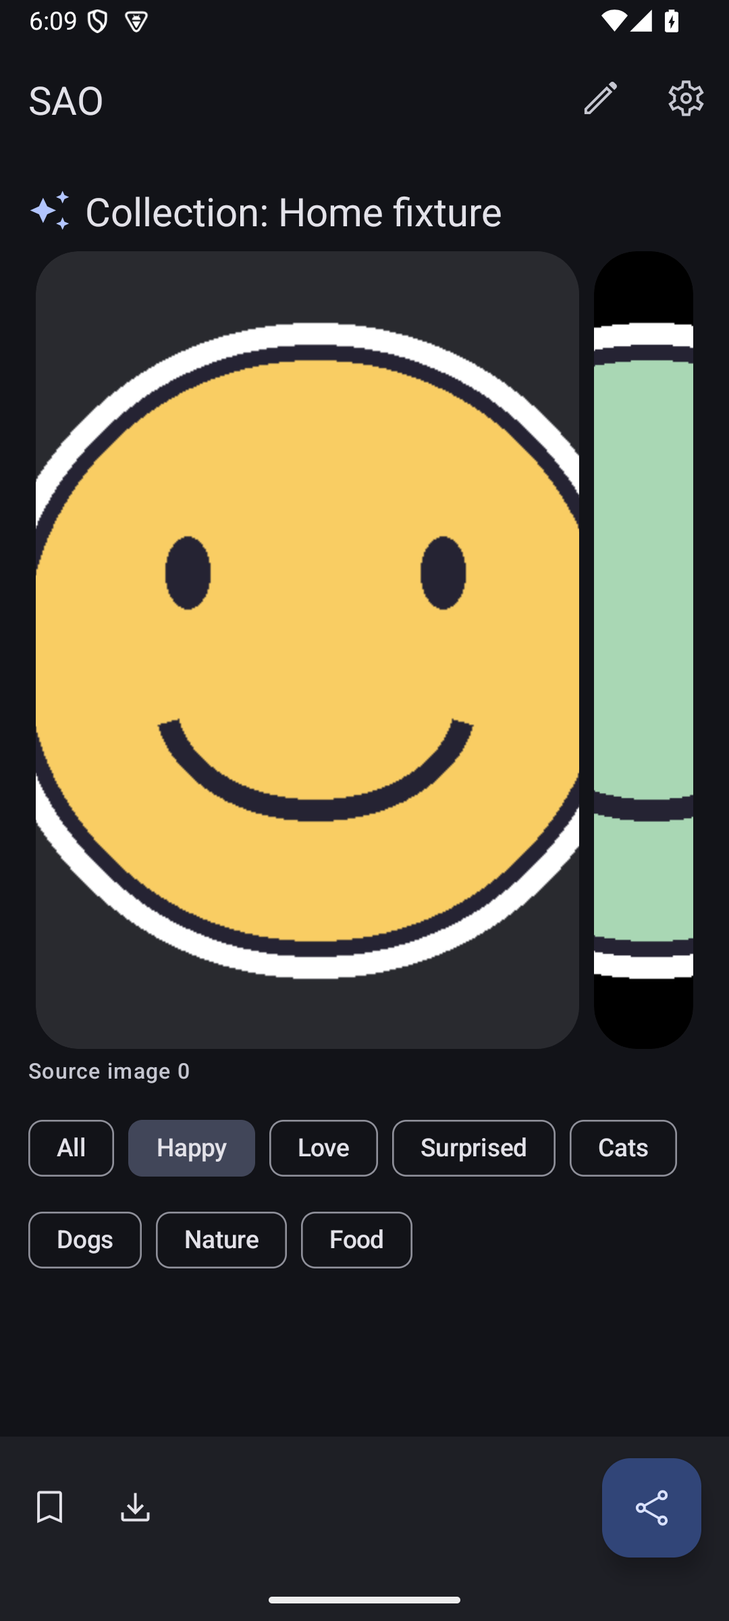
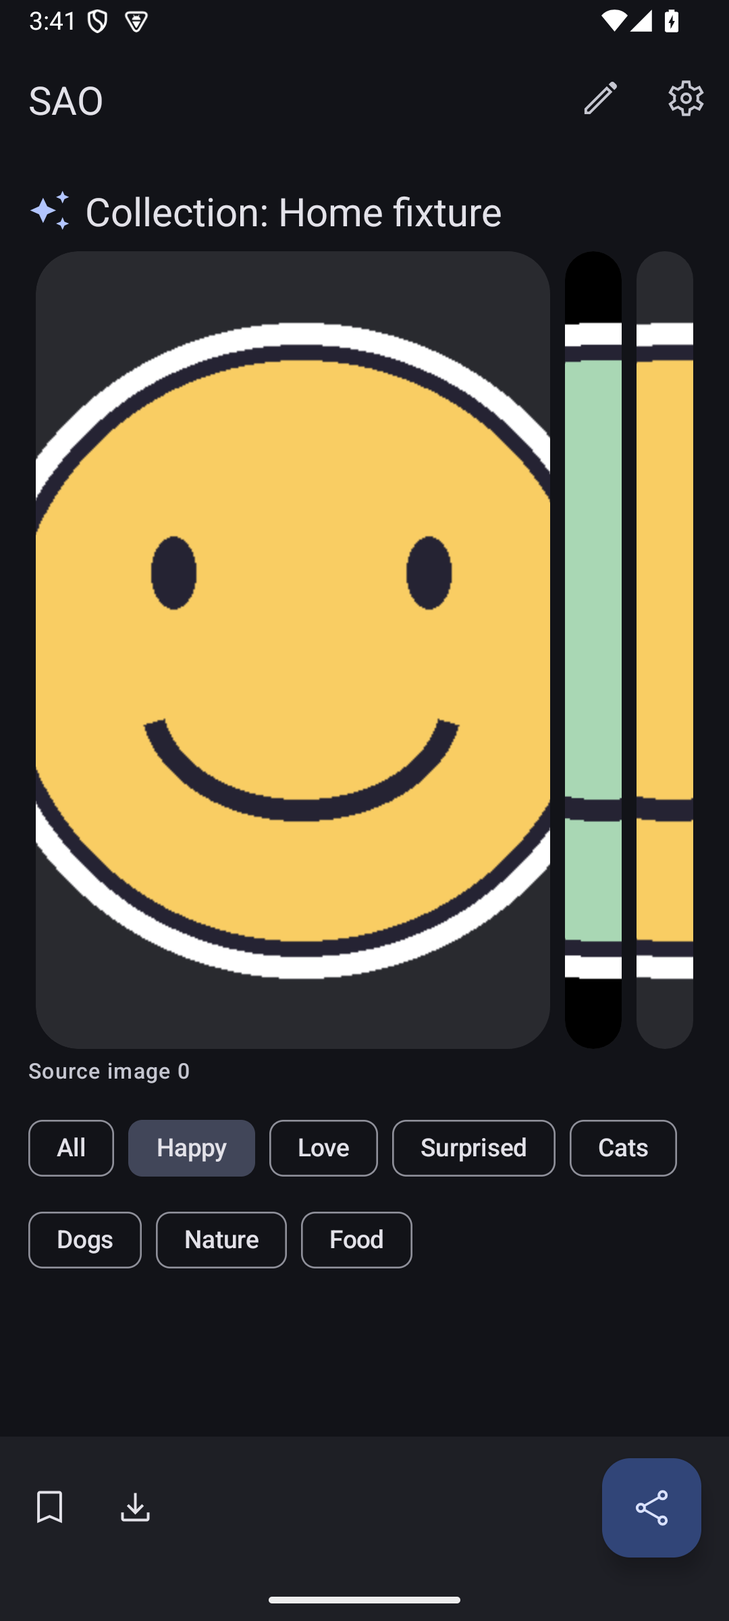
fix: restore centered home carousel and collection gestures

diff --git a/app/src/androidTest/java/one/njk/sao/floating/SourceHomeDeviceTest.kt b/app/src/androidTest/java/one/njk/sao/floating/SourceHomeDeviceTest.kt
@@ -7,6 +7,7 @@ import android.graphics.Color
 import android.graphics.drawable.Animatable
 import android.os.SystemClock
 import android.view.View
+import android.view.MotionEvent
 import android.widget.TextView
 import androidx.lifecycle.ViewModelProvider
 import androidx.recyclerview.widget.RecyclerView
@@ -321,6 +322,8 @@ class SourceHomeDeviceTest {
         try {
             profiles.restore(SourceCatalog())
             profiles.upsert(immichProfile("Home fixture",ImmichConfig(server.url("/").toString(),"home-fixture-key")),true)
+            val alternate=immichProfile("Home alternate",ImmichConfig(server.url("/").toString(),"home-alternate-key"))
+            profiles.upsert(alternate,false)
             ActivityScenario.launch<MainActivity>(IntentForHome.create(app)).use { scenario ->
                 lateinit var model: ArtsViewModel
                 scenario.onActivity { model=ViewModelProvider(it)[ArtsViewModel::class.java] }
@@ -336,12 +339,15 @@ class SourceHomeDeviceTest {
                 }
                 await(scenario,"Home filename copied") { it.getSystemService(ClipboardManager::class.java).primaryClip?.getItemAt(0)?.text?.toString()=="fixture-0.png" }
                 pauseSourceVisual("source-home")
-                scenario.onActivity { it.findViewById<RecyclerView>(R.id.carousel_recycler_view).scrollToPosition(1) }
+                scenario.onActivity { activity ->
+                    // Follow the real side-card tap route, including its smooth scroll callbacks.
+                    activity.findViewById<RecyclerView>(R.id.carousel_recycler_view).findViewHolderForAdapterPosition(1)!!.itemView.performClick()
+                }
                 await(scenario,"Home focused GIF animates") { activity ->
                     val holder=activity.findViewById<RecyclerView>(R.id.carousel_recycler_view).findViewHolderForAdapterPosition(1) as? MediaCarouselAdapter.Holder
                     (holder?.binding?.preview?.drawable as? Animatable)?.isRunning==true
                 }
-                scenario.onActivity { it.findViewById<RecyclerView>(R.id.carousel_recycler_view).scrollToPosition(2) }
+                scenario.onActivity { it.findViewById<RecyclerView>(R.id.carousel_recycler_view).smoothScrollToPosition(2) }
                 await(scenario,"Home video plays muted") { activity ->
                     val holder=activity.findViewById<RecyclerView>(R.id.carousel_recycler_view).findViewHolderForAdapterPosition(2) as? MediaCarouselAdapter.Holder
                     val player=holder?.binding?.videoPreview?.player
@@ -351,6 +357,16 @@ class SourceHomeDeviceTest {
                 val wanted=model.state.value.browse.items[7].id
                 scenario.onActivity { it.findViewById<RecyclerView>(R.id.carousel_recycler_view).scrollToPosition(7) }
                 await(scenario,"Scroll to seventh card") { model.focusedId==wanted }
+                scenario.onActivity { activity ->
+                    val grid=activity.findViewById<RecyclerView>(R.id.carousel_recycler_view)
+                    val focal=grid.findViewHolderForAdapterPosition(7)!!.itemView as com.google.android.material.carousel.MaskableFrameLayout
+                    val before=grid.findViewHolderForAdapterPosition(6)!!.itemView as com.google.android.material.carousel.MaskableFrameLayout
+                    val after=grid.findViewHolderForAdapterPosition(8)!!.itemView as com.google.android.material.carousel.MaskableFrameLayout
+                    assertTrue("Prominent focal card",focal.maskRectF.width()>grid.width*.75f)
+                    assertTrue("Both side previews",before.maskRectF.width()>0 && after.maskRectF.width()>0)
+                    assertEquals(grid.width/2f,focal.x+focal.width/2f,2f)
+                }
+                pauseSourceVisual("source-home-centered")
                 val count=searches.get(); scenario.recreate()
                 await(scenario,"Restore focal card") { model.focusedId==wanted && it.findViewById<TextView>(R.id.media_title).text.toString()=="Source image 7" }
                 assertEquals(count,searches.get())
@@ -360,6 +376,36 @@ class SourceHomeDeviceTest {
                 }
                 await(scenario,"Provider-defined category query") { lastQuery=="happy" && !model.state.value.browse.loading }
                 pauseSourceVisual("source-home-category")
+                lateinit var home: MainActivity; var x=0f; var y=0f
+                val down=SystemClock.uptimeMillis()
+                fun send(action: Int,dy: Float=0f) = instrumentation.runOnMainSync {
+                    val event=MotionEvent.obtain(down,SystemClock.uptimeMillis(),action,x,y+dy,0)
+                    home.dispatchTouchEvent(event); event.recycle()
+                }
+                scenario.onActivity { activity ->
+                    home=activity
+                    val anchor=activity.findViewById<View>(R.id.type)
+                    val location=IntArray(2).also(anchor::getLocationOnScreen)
+                    x=location[0]+anchor.width/2f; y=location[1]+anchor.height/2f
+                }
+                send(MotionEvent.ACTION_DOWN)
+                await(scenario,"Home collection expands on hold") { it.findViewById<View>(R.id.hold_choice_card)!=null }
+                pauseSourceVisual("source-home-collection-hold")
+                var distance=0f
+                scenario.onActivity { activity ->
+                    val catalog=ViewModelProvider(activity)[SourceProfilesViewModel::class.java].state.value.catalog
+                    val choices=catalog.profiles
+                    val steps=choices.size+Math.floorMod(choices.indexOfFirst { it.id==catalog.selectedId }-choices.indexOfFirst { it.id==alternate.id },choices.size)
+                    distance=activity.findViewById<View>(R.id.hold_choice_highlight).height*steps.toFloat()
+                }
+                send(MotionEvent.ACTION_MOVE,distance) // Loop through all installed profiles before choosing.
+                send(MotionEvent.ACTION_UP,distance)
+                await(scenario,"Release applies the previewed collection") { it.findViewById<TextView>(R.id.type).text.toString()=="Collection: Home alternate" && !model.state.value.browse.loading }
+                assertEquals(alternate.id,profiles.current().selectedId)
+                scenario.onActivity { it.findViewById<View>(R.id.type).performClick() }
+                androidx.test.espresso.Espresso.onView(androidx.test.espresso.matcher.ViewMatchers.withText("Home fixture"))
+                    .perform(androidx.test.espresso.action.ViewActions.click())
+                await(scenario,"Tap retains the full collection list") { it.findViewById<TextView>(R.id.type).text.toString()=="Collection: Home fixture" && !model.state.value.browse.loading }
             }
             val preferences=access.preferences(); val oldMode=preferences.current().preferStickers
             try {

diff --git a/app/src/main/java/one/njk/sao/CarouselFragment.kt b/app/src/main/java/one/njk/sao/CarouselFragment.kt
@@ -3,6 +3,7 @@ package one.njk.sao
 import android.content.Intent
 import android.os.Bundle
 import android.view.*
+import android.widget.FrameLayout
 import androidx.core.view.MenuHost
 import androidx.core.view.MenuProvider
 import androidx.core.view.isVisible
@@ -45,6 +46,7 @@ class CarouselFragment : Fragment(), MenuProvider {
     private var categories: List<SourceCategory>? = null
     private var busy = false
     private var titleHold: ResultHoldAction? = null
+    private var collectionGesture: HoldDragSelector<SourceProfile>? = null
 
     override fun onCreateView(inflater: LayoutInflater, container: ViewGroup?, savedInstanceState: Bundle?): View {
         _binding = FragmentCarouselBinding.inflate(inflater,container,false)
@@ -60,6 +62,12 @@ class CarouselFragment : Fragment(), MenuProvider {
         carousel = PickerCarousel(binding.carouselRecyclerView,adapter,model::current,{ model.focusedId },
             { _, id, position -> model.focus(id); model.loadMore(position) },::renderActions,{}, {},home=true)
         binding.type.setOnClickListener { chooseSource() }
+        collectionGesture = HoldDragSelector(binding.type,requireActivity().findViewById<FrameLayout>(android.R.id.content),
+            choices={ sources.state.value.catalog.profiles }, selected={ sources.state.value.catalog.let { it.selected ?: it.profiles.first() } },
+            label={ it.name }, identity={ sources.state.value.catalog.identity }, apply={ sources.select(it.id) },
+            title=R.string.sources_title,chooseAction=R.string.source_hold_choose,
+            nextAction=R.string.source_hold_next,previousAction=R.string.source_hold_previous,
+            hint={ getString(R.string.source_hold_release) },holdDelay={ holdMs })
         binding.homeStatus.setOnClickListener {
             if(sources.state.value.catalog.selected == null) startActivity(Intent(requireContext(),SourceSettingsActivity::class.java))
             else model.retry()
@@ -105,6 +113,7 @@ class CarouselFragment : Fragment(), MenuProvider {
                     renderStatus(); renderActions()
                 } }
                 launch { sources.state.collect { state ->
+                    collectionGesture?.update()
                     binding.type.text = getString(R.string.collection,state.catalog.selected?.name ?: getString(R.string.picker_source_none))
                     renderStatus()
                 } }
@@ -112,6 +121,7 @@ class CarouselFragment : Fragment(), MenuProvider {
         } }
     }
     override fun onResume() { super.onResume(); sources.refreshExtensions() }
+    override fun onStop() { collectionGesture?.cancel(); super.onStop() }
     private fun renderStatus() {
         if(_binding==null) return
         val state=model.state.value.browse
@@ -152,7 +162,7 @@ class CarouselFragment : Fragment(), MenuProvider {
             finally { busy=false; renderActions() }
         }
     }
-    override fun onDestroyView() { filenameRequest.next(); titleHold?.cancel(); titleHold=null; carousel.close(); categories=null; _binding=null; super.onDestroyView() }
+    override fun onDestroyView() { filenameRequest.next(); titleHold?.cancel(); titleHold=null; collectionGesture?.dispose(); collectionGesture=null; carousel.close(); categories=null; _binding=null; super.onDestroyView() }
     override fun onCreateMenu(menu: Menu, menuInflater: MenuInflater) { menuInflater.inflate(R.menu.top_app_bar,menu) }
     override fun onMenuItemSelected(menuItem: MenuItem): Boolean = when(menuItem.itemId) {
         R.id.settings -> { findNavController().navigate(CarouselFragmentDirections.actionHomeFragmentToSettingsFragment()); true }

diff --git a/local-extension/src/main/java/one/njk/sao/extension/local/LocalSettingsActivity.kt b/local-extension/src/main/java/one/njk/sao/extension/local/LocalSettingsActivity.kt
@@ -28,11 +28,11 @@ class LocalSettingsActivity : AppCompatActivity() {
     private val picker=registerForActivityResult(ActivityResultContracts.OpenDocumentTree()) { uri -> if(uri!=null) model.folder(uri) }
     private val photos=registerForActivityResult(ActivityResultContracts.PickMultipleVisualMedia()) { model.media(it) }
     private val files=registerForActivityResult(ActivityResultContracts.OpenMultipleDocuments()) { model.media(it) }
-    private fun launchImport(target: String?=null) {
+    private fun launchImport(target: String?=null,method: ImportMethod=model.state.value.importMethod) {
         model.importTarget=target
-        val method=model.state.value.importMethod.let { if(target!=null && it==ImportMethod.FOLDER) ImportMethod.PHOTOS else it }
+        val pickerMethod=if(target!=null && method==ImportMethod.FOLDER) ImportMethod.PHOTOS else method
         try {
-            when(method) {
+            when(pickerMethod) {
                 ImportMethod.FOLDER -> picker.launch(null)
                 ImportMethod.PHOTOS -> photos.launch(PickVisualMediaRequest(ActivityResultContracts.PickVisualMedia.ImageAndVideo))
                 ImportMethod.FILES -> files.launch(arrayOf("image/*","video/*"))
@@ -51,6 +51,7 @@ class LocalSettingsActivity : AppCompatActivity() {
         binding.back.setOnClickListener { finish() }
         binding.sourceName.doAfterTextChanged { if(populated) model.name=it?.toString().orEmpty() }
         binding.addFolder.setOnClickListener { launchImport() }
+        binding.addWholeFolder.setOnClickListener { launchImport(method=ImportMethod.FOLDER) }
         binding.importMethod.setSimpleItems(ImportMethod.entries.map { getString(it.label) }.toTypedArray())
         binding.importMethod.setOnItemClickListener { _,_,position,_ -> model.importMethod(position) }
         binding.saveLibrary.setOnClickListener { model.save() }
@@ -78,6 +79,7 @@ class LocalSettingsActivity : AppCompatActivity() {
             binding.importMethod.isEnabled=state.loaded && !state.working
             binding.importHelp.setText(state.importMethod.help)
             binding.addFolder.setText(state.importMethod.action)
+            binding.addWholeFolder.isVisible=state.importMethod!=ImportMethod.FOLDER
             binding.indexStatus.bind(state.index,state.library?.paused==true,state.indexWork)
             val modelStatus=state.model
             val label=getString(state.selectedModel.label)
@@ -114,7 +116,7 @@ class LocalSettingsActivity : AppCompatActivity() {
                 listOf(row.pauseFolder,row.restartFolder,row.rename,row.remove,row.addMedia).forEach { it.isEnabled=!state.working }
             }
             binding.error.isVisible=state.error!=null; state.error?.let(binding.error::setText)
-            listOf(binding.addFolder,binding.sourceName,binding.saveLibrary,binding.deleteLibrary).forEach { it.isEnabled=state.loaded && !state.working }
+            listOf(binding.addFolder,binding.addWholeFolder,binding.sourceName,binding.saveLibrary,binding.deleteLibrary).forEach { it.isEnabled=state.loaded && !state.working }
             listOf(binding.rescan,binding.pauseIndexing,binding.browseMetadata).forEach { it.isVisible=state.library!=null; it.isEnabled=!state.working }
             binding.deleteLibrary.isVisible=state.library!=null
             binding.pauseIndexing.setText(if(state.library?.paused==true) R.string.resume else R.string.pause)

diff --git a/app/src/androidTest/java/one/njk/sao/floating/LocalFolderSetupDeviceTest.kt b/app/src/androidTest/java/one/njk/sao/floating/LocalFolderSetupDeviceTest.kt
@@ -76,7 +76,10 @@ class LocalFolderSetupDeviceTest {
             }
             ExtensionForm(installed=extension).use { form ->
                 form.set("source_name",name)
-                form.click("import_method"); click("Folder picker"); form.click("add_folder")
+                val previousMethod=form.text("import_method")
+                form.click("import_method"); click("Photo picker")
+                pauseSourceVisual("local-whole-folder-action")
+                form.click("add_whole_folder")
                 waitFor { node { it.packageName?.toString()?.contains("documentsui")==true }!=null }
                 click("Show roots")
                 click(android.os.Build.MODEL)
@@ -84,7 +87,10 @@ class LocalFolderSetupDeviceTest {
                 click(folder)
                 click("USE THIS FOLDER")
                 click("Allow")
-                form.await("source_name"); form.click("rename")
+                form.await("source_name")
+                assertEquals("Photo picker",form.text("import_method"))
+                form.click("import_method"); click(previousMethod)
+                form.click("rename")
                 waitFor { node { it.isEditable }!=null }
                 check(node { it.isEditable }!!.performAction(AccessibilityNodeInfo.ACTION_SET_TEXT,android.os.Bundle().apply {
                     putCharSequence(AccessibilityNodeInfo.ACTION_ARGUMENT_SET_TEXT_CHARSEQUENCE,"Reactions")

diff --git a/app/src/main/java/one/njk/sao/floating/PickerCarousel.kt b/app/src/main/java/one/njk/sao/floating/PickerCarousel.kt
@@ -8,7 +8,6 @@ import com.google.android.material.carousel.CarouselLayoutManager
 import com.google.android.material.carousel.CarouselSnapHelper
 import com.google.android.material.carousel.FullScreenCarouselStrategy
 import com.google.android.material.carousel.HeroCarouselStrategy
-import com.google.android.material.carousel.MultiBrowseCarouselStrategy
 
 internal data class PickerBrowseKey(val sourceId: String, val query: MediaQuery, val sequenceId: String?)
 
@@ -57,8 +56,14 @@ internal class PickerCarousel(val view: RecyclerView, val adapter: MediaCarousel
     }
 
     private fun manager(fullScreen: Boolean) = CarouselLayoutManager(
-        if (fullScreen) FullScreenCarouselStrategy() else if(home) MultiBrowseCarouselStrategy() else HeroCarouselStrategy()).apply {
-        carouselAlignment = if(home) CarouselLayoutManager.ALIGNMENT_START else CarouselLayoutManager.ALIGNMENT_CENTER
+        if (fullScreen) FullScreenCarouselStrategy() else HeroCarouselStrategy().apply {
+            if(home) {
+                // Leave two narrow previews around the prominent home card.
+                val preview = 32 * view.resources.displayMetrics.density
+                smallItemSizeMin = preview; smallItemSizeMax = preview
+            }
+        }).apply {
+        carouselAlignment = CarouselLayoutManager.ALIGNMENT_CENTER
     }
 
     fun render(state: PickerState) {

diff --git a/docs/home-source-browser.md b/docs/home-source-browser.md
@@ -1,8 +1,8 @@
 # Home and source collections
 
-Tap the **Collection** heading to select an installed source profile, or use the pencil to manage sources. Category chips come from that extension, including its preset query and supported search mode. Install the updated **Immich 1.1.0** or **Local Sticker 1.4.0** APK for presets and filenames. Existing profiles/credentials remain in their extension.
+Tap the **Collection** heading to select an installed source profile, or hold and drag vertically to preview looping choices and release to switch. This reuses the floating picker's selector and configured hold delay (160 ms initially), with the full tap list and accessibility actions retained. Only source profiles appear in the gesture list. Use the pencil to manage sources. Category chips come from that extension, including its preset query and supported search mode. Install **Immich 1.1.0** or **Local Sticker 1.4.1** for presets, filenames and the current import UI. Existing profiles/credentials remain in their extension.
 
-The original 300 dp cards, 450 dp carousel, Material chips and bottom bookmark/download/share actions remain. Home reuses the floating picker's media adapter and focal-keyline controller: focused GIFs animate, one muted Media3 player previews the focused video, and actions use the actual focal card. Playback stops when hidden. The current result set, category and focus live in the ViewModel/SavedStateHandle, with no scroll/query preference writes. New indexing notifications refresh visible browsing without resetting focus or retrying a failed read.
+The 450 dp carousel, Material chips and bottom bookmark/download/share actions remain. A centered Material Hero strategy reserves two narrow 32 dp previews around the prominent card; at the start/end Material shifts the previews to the available side. Home reuses the floating picker's media adapter and focal-keyline controller: focused GIFs animate, one muted Media3 player previews the focused video, and actions use the actual focal card. Playback stops when hidden. The current result set, category and focus live in the ViewModel/SavedStateHandle, with no scroll/query preference writes. New indexing notifications refresh visible browsing without resetting focus or retrying a failed read.
 
 [Light/dark home previews](screenshots/README.md#home-source-collections). The original README images remain the layout reference.
 
@@ -23,3 +23,5 @@ Hold the **media title** in home or the floating picker to copy its original fil
 **Media** copy/share/download preserves the original file's bytes, MIME type, resolution and transparency. Ordinary static photos no longer pass through a 512×512 JPEG canvas or receive white padding. Sticker exports keep their dedicated 512-pixel conversion. A new export namespace prevents reuse of earlier reduced-quality files. Synthetic tests cover the reported filename shape, a 3000×1800 JPEG, transparent PNGs, provider streams, title-hold copying and the Telegram Media clipboard path; no personal library is accessed. A receiving app can still apply its own compression.
 
 Validation: 51 JVM checks and 26 Android 15 emulator checks passed, including 10 new home/aggregate/export checks and 16 existing floating/source/playback/chronology checks. Host/source SDK and both optimized source APKs passed lint with zero errors. Light/dark home and video captures were visually inspected.
+
+Carousel follow-up: the home checks additionally verify a focal card occupying over 75% of the carousel with both neighboring previews visible, real side-card tap playback, a full loop through the Collection hold selector, switching on release, and the unchanged tap list. Real system-picker journeys cover whole-folder import while Photo picker stays selected and individual photo/video imports. The optimized Local Sticker 1.4.1 APK and the updated host passed lint with zero errors. See the [PR size audit](pr-size-audit.md) for the original 33,053-line breakdown.

diff --git a/docs/pr-size-audit.md b/docs/pr-size-audit.md
@@ -1,0 +1,27 @@
+# PR #24 size audit
+
+The reported **33,053 additions / 852 deletions** compare master (`e62c7db`) with `5a23040`, before the carousel follow-up. They cover the entire overlay/source branch, rather than one home-screen change. GitHub reports 430 changed files; 373 have textual line counts and 57 are binary assets, including screenshots and test media.
+
+| Area | Added lines | Purpose |
+| --- | ---: | --- |
+| Host production code | 6,560 | Floating service/window, search and chronology, shared carousel/playback, clipboard/export, source orchestration and settings |
+| Host Vector integration | 1,825 | Modern libxposed hooks, per-app adapters, IPC and bridge lifecycle |
+| Source SDK and source APK code | 3,714 | Extension contract, Immich client/provider/settings, Local Sticker indexing, OCR/labels and Context search |
+| UI resources | 1,832 | Views layouts, strings, icons and theme resources across the host and extensions |
+| Tests and debug fixtures | 10,154 | JVM and device checks, synthetic providers/media and cross-process test support; excluded from production APKs |
+| Generated emoji keyword data | 1,871 | English shortcode/search index; one generated TSV, rather than handwritten application logic |
+| Licenses and attribution | 3,027 | Upstream license/provenance files and notices packaged with the relevant APKs |
+| Documentation | 2,780 | Setup, API/delivery research, design reports, behavior and test evidence |
+| Development tools | 980 | Disposable chat-contract probes, fixture generators and recovery testing; excluded from production APKs |
+| Build configuration and manifests | 310 | Module/dependency setup, shrinking, extension discovery and Android component declarations |
+| **Total** | **33,053** | |
+
+Application/extension code plus UI resources account for **13,931 lines (42.1%)**. Tests, tools, research, keyword data and legal text account for most of the remainder. The source-code subtotal is 12,099: host 8,385 and source modules 3,714. Local Sticker contributes 2,165 of those source-module lines; its ML runtime is a dependency and downloaded model weights are not represented by this line count.
+
+The feature scope explains the production-code growth: this branch adds an overlay, media delivery into several unrelated apps, an extension protocol, and two independently installed providers. Playback, exporting, pagination and source switching are shared host implementations. Provider credentials and indexing stay outside the host.
+
+**That does not justify making one PR this broad.** It combines several independently reviewable features. Tests improve confidence but do not make 10,154 test/fixture lines free to maintain. The 2,780 documentation lines include historical plans and overlapping investigations; retaining all of them in the main feature PR is a review cost. Some legal text is tracked both under `third_party` and in APK assets, with Material notices repeated across APK modules. Each distributed APK needs its notices; repeated repository copies could be consolidated through packaging. These are opportunities to reduce duplication, rather than evidence that every added line is unavoidable.
+
+The better delivery would have been a series of PRs for the overlay/media core, chat bridges, source contract/Immich, Local Sticker, and home/aggregate browsing. This follow-up keeps its functional changes small and reuses the existing selector, carousel and folder-import paths.
+
+Counts are reproducible with `git diff --numstat e62c7db185d891a4fdee98045000f342af1427d4 5a23040ca869d1ee31821911e29a9a75743a5bd0`. Each textual path belongs to one row: tests/debug support first, then documentation/legal/data/tools, bridge code, other production code, UI resources and remaining build files. Binary assets add no textual lines.

diff --git a/docs/screenshots/README.md b/docs/screenshots/README.md
@@ -74,12 +74,20 @@ The optional emoji row is configured in SAO and searches emoji as text. The empt
 
 <img src="local-source-import-methods.png" width="260" alt="Folder, Photo and Files picker options in Local Sticker" /> <img src="local-source-selected-collection.png" width="260" alt="Named selected-media collection with format counts and processing controls" />
 
+Local Sticker 1.4.1 exposes whole-folder import alongside selected-media import, without changing the chosen picker. Android's Photo picker grants selected files, rather than whole cloud albums.
+
+<img src="local-source-whole-folder.png" width="260" alt="Photo picker selected with separate Add photos and videos and Add whole folder actions and album-access guidance" />
+
 ## Home source collections
 
-The original large-card carousel now reads installed extension profiles and their category presets. Its card dimensions, category chips and bottom actions remain; home shares GIF/video playback and focal-card selection with the floating picker. Long-press the title to copy the source filename. These captures use a synthetic localhost fixture, including a test-pattern MP4.
+The large-card carousel reads installed extension profiles and their category presets. A centered Hero layout shows the prominent card and two narrow previews; Material shifts the previews to the available side at the list boundaries. Category chips and bottom actions remain; home shares GIF/video playback and focal-card selection with the floating picker. Long-press the title to copy the source filename. These captures use a synthetic localhost fixture, including a test-pattern MP4.
 
 | Home in light mode | Provider category in dark mode | Muted video preview |
 | --- | --- | --- |
 | <img src="home-source-light.png" width="260" alt="Original home carousel with a source Collection heading, large image card, extension category chips and existing bottom actions" /> | <img src="home-source-category-dark.png" width="260" alt="The same home carousel in dark mode with the extension's Happy category selected" /> | <img src="home-source-video-dark.png" width="260" alt="Synthetic MP4 playing inside the original home card with a Video badge" /> |
 
 [Home, experimental All source and original-file exports](../home-source-browser.md).
+
+Hold **Collection**, drag vertically through looping source choices and release to switch. Tapping retains the full source list. The same selector and configured hold delay are used in the floating picker.
+
+<img src="home-source-collection-hold.png" width="260" alt="Home Collection heading expanded into the shared Material hold-and-drag source selector" />

diff --git a/docs/local-sticker-source.md b/docs/local-sticker-source.md
@@ -7,7 +7,7 @@ The extension recursively indexes supported JPEG/PNG/WebP/GIF/HEIF/AVIF images a
 ## Import methods
 
 - **Folder picker:** recursively discovers supported media in the granted folder. New files are picked up during the normal throttled scan.
-- **Photo picker:** Android’s multi-select image/video picker, including Google Photos when it is configured as an eligible cloud media provider. Android supplies selected-item access, not a live grant to a whole Google Photos album. Select the items you want; use **Add photos and videos** on that collection to append more later.
+- **Photo picker:** Android’s multi-select image/video picker, including Google Photos when it is configured as an eligible cloud media provider. Android supplies selected-item access, not a live grant to a whole Google Photos album. Select the items you want; use **Add photos and videos** on that collection to append more later. Local Sticker 1.4.1 also exposes **Add whole folder** directly below the import action: grant one local directory to include all supported media and subfolders, without changing your default picker. This adds a separate folder collection; it does not convert or expand a cloud album grant.
 - **Files picker:** selects multiple supported media files from a document provider using `ACTION_OPEN_DOCUMENT`.
 
 The last chosen import method is an explicit extension setting. Selected items retain read grants and are indexed in bounded batches without copying originals into the extension. Cloud availability and downloads are controlled by the provider. Photo-picker providers may expose numeric filenames rather than the original filename. Original bytes are streamed through the existing host-owned media cache. Duplicate selections are ignored; appending media preserves corrections and invalidates stale browsing cursors. Collection removal releases grants only when no other library or model folder needs them.
